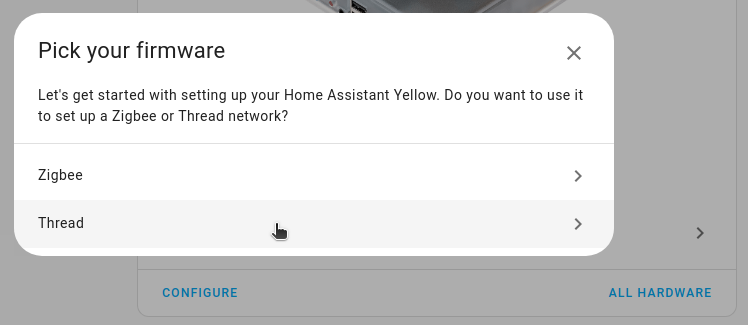
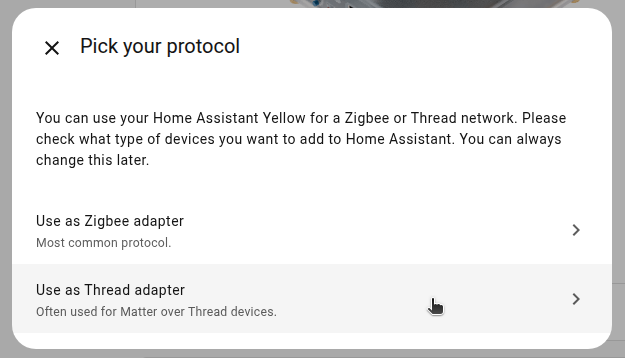
Yellow: switch from Zigbee to Thread: update to reflect current SW (#704)
* Yellow: switch from Zigbee to Thread: update to reflect current SW

* Fix link

* Apply suggestions from code review

* Update src/yellow/setup/yellow-enable-thread.md

---------

diff --git a/src/yellow/setup/yellow-enable-thread.md b/src/yellow/setup/yellow-enable-thread.md
@@ -1,15 +1,15 @@
 ---
 zendesk:
   article_id: 25742476767517
-  name: Enabling Thread support
-  description: How to enable Tread support on Home Assistant Yellow
+  name: Switching from Zigbee to Thread support
+  description: How to switch from Zigbee to Thread on Home Assistant Yellow
   position: 4
   labels: yellow, setup, Thread
 ---
 
-Step-by-step instructions on configuring the Home Assistant Yellow for Thread support. This setup facilitates the connection of Matter-over-Thread devices to your network.
+Step-by-step instructions on configuring the Home Assistant Yellow for Thread support when you have previously used it for Zigbee. The Thread adapter allows you to connect Thread-based devices, such as Matter-over-Thread devices, to your network.
 
-> This guide installs a firmware which supports only Thread! If you use your Yellow to control Zigbee devices, you will no longer be able to control them after installing the Thread firmware. If you want to use both Thread and Zigbee with your Home Assistant Yellow, you will need an additional radio, such as [Home Assistant Connect ZBT-1](https://www.home-assistant.io/connectzbt1).
+This guide is about switching from Zigbee to Thread support on Yellow's built-in radio chip. If your goal is to keep using Zigbee and using Thread in addition, you can use an external adapter for Thread, such as the [Home Assistant Connect ZBT-1](https://www.home-assistant.io/connectzbt1).
 
 ## Prerequisites
 
@@ -23,6 +23,13 @@ This guide assumes you have the following setup:
 - Home Assistant Yellow up and running.
 - Home Assistant OS installation.
 - Multiprotocol support disabled: Refer to the [Disable multiprotocol support](/hc/en-us/articles/25744235797661-Disabling-multiprotocol-support) procedure.
+- **Important:** This guide installs firmware that supports only Thread! You will no longer be able to control your Zigbee devices with this adapter after installing the Thread firmware. Depending on whether you want to keep your Zigbee network (on another device) or not, follow the steps in one of the following scenarios:
+  - **Scenario 1: You want to keep the Zigbee network**: If you use your Yellow to run a Zigbee network, [migrate your Zigbee network](https://www.home-assistant.io/integrations/zha/#migrating-to-a-new-zigbee-coordinator-adapter-inside-zha) to another adapter. Otherwise, if you delete the Zigbee network, even if you set it up again, all of your entity customizations will be gone.
+  - **Scenario 2: You no longer need the Zigbee network**: If you use your Yellow to run a Zigbee network, and you no longer need a Zigbee network, follow these steps to remove ZHA from the integration list:
+
+    1. Go to [**Settings** > **Devices & services**](https://my.home-assistant.io/redirect/integrations/).
+    2. Select the **Zigbee Home Assistant** integration card.
+    3. Select the three dots menu behind **Home Assistant Yellow** and choose **Delete**.
 
 {% endstepContent %}
 {% endprereq %}
@@ -31,19 +38,6 @@ This guide assumes you have the following setup:
 ## Enabling dedicated Thread support
 
 {% steps %}
-{% step "Deleting the Zigbee Home Automation (ZHA) integration" %}
-{% image "/static/img/yellow/yellow-zha-delete.png" "Zigbee Home Automation integration page with delete button" %}
-{% stepContent %}
-
-- If you have a new Yellow or did not setup Zigbee Home Automation (ZHA) yet, skip to Step 2.
-- If you are using the Yellow with Zigbee Home Automation (ZHA), this step removes Zigbee Home Automation (ZHA) from the integration list.
-  1. Go to [**Settings** > **Devices & services**](https://my.home-assistant.io/redirect/integrations/).
-  2. Select the **Zigbee Home Automation integration** card.
-  3. Select the menu behind the **Yellow** integration and choose **Delete**.
-  4. In the pop-up menu, select **Delete again** to confirm deletion.
-
-{% endstepContent %}
-{% endstep %}
 
 {% step "Configuring Yellow for Thread support" %}
 {% image "/static/img/yellow/configure_yellow.png" "Configure Yellow for Thread support on the Yellow hardware page" %}
@@ -51,7 +45,7 @@ This guide assumes you have the following setup:
 
 1. Go to [**Settings** > **System** > **Hardware**](https://my.home-assistant.io/redirect/hardware/).
 2. Select **Configure**.
-3. Select **Switch between Zigbee and Thread** firmware.
+3. Select **Switch between Zigbee and Thread firmware**.
 
 {% endstepContent %}
 {% endstep %}
@@ -60,9 +54,9 @@ This guide assumes you have the following setup:
 {% image "/static/img/yellow/pick_firmware_thread.png" "Dialog to pick the firmware" %}
 {% stepContent %}
 
-1. Under **Pick your firmware**, select **Thread**.
+1. Under **Pick your protocol**, select **Use as Thread adapter**.
    - **Result**: **The OpenThread Border Router** add-on is installed.
-   - The dialog informs you that Connect ZBT-1 now acts as an OpenThread border router. Select **Submit**.
+   - The dialog informs you that your Yellow now acts as an OpenThread border router. Select **Submit**.
 2. Then, select **Finish**.
 
 {% endstepContent %}
@@ -77,16 +71,6 @@ This guide assumes you have the following setup:
 
 {% endstepContent %}
 {% endstep %}
-
-{% step "Ignoring Yellow as a Zigbee Home Automation device" %}
-{% image "/static/img/yellow/yellow-zha-delete-discovery.png" "Ignore button on ZHA integration card" %}
-{% stepContent %}
-
-1. On the Yellow ZHA card, select **Ignore**.
-2. Confirm ignoring the Yellow for Zigbee Home Automation (ZHA) usage by selecting **Ignore** again.
-
-{% endstepContent %}
-{% endstep %}
 {% endsteps %}
 
 ## Related topics
@@ -95,3 +79,4 @@ This guide assumes you have the following setup:
 - [Thread integration documentation](https://www.home-assistant.io/integrations/thread/)
 - [About firmware options](/hc/en-us/articles/25616122309405-About-firmware-options)
 - [Disable multiprotocol support](/hc/en-us/articles/25744235797661-Disabling-multiprotocol-support)
+- [Migrating your Zigbee network](https://www.home-assistant.io/integrations/zha/#migrating-to-a-new-zigbee-coordinator-adapter-inside-zha)
